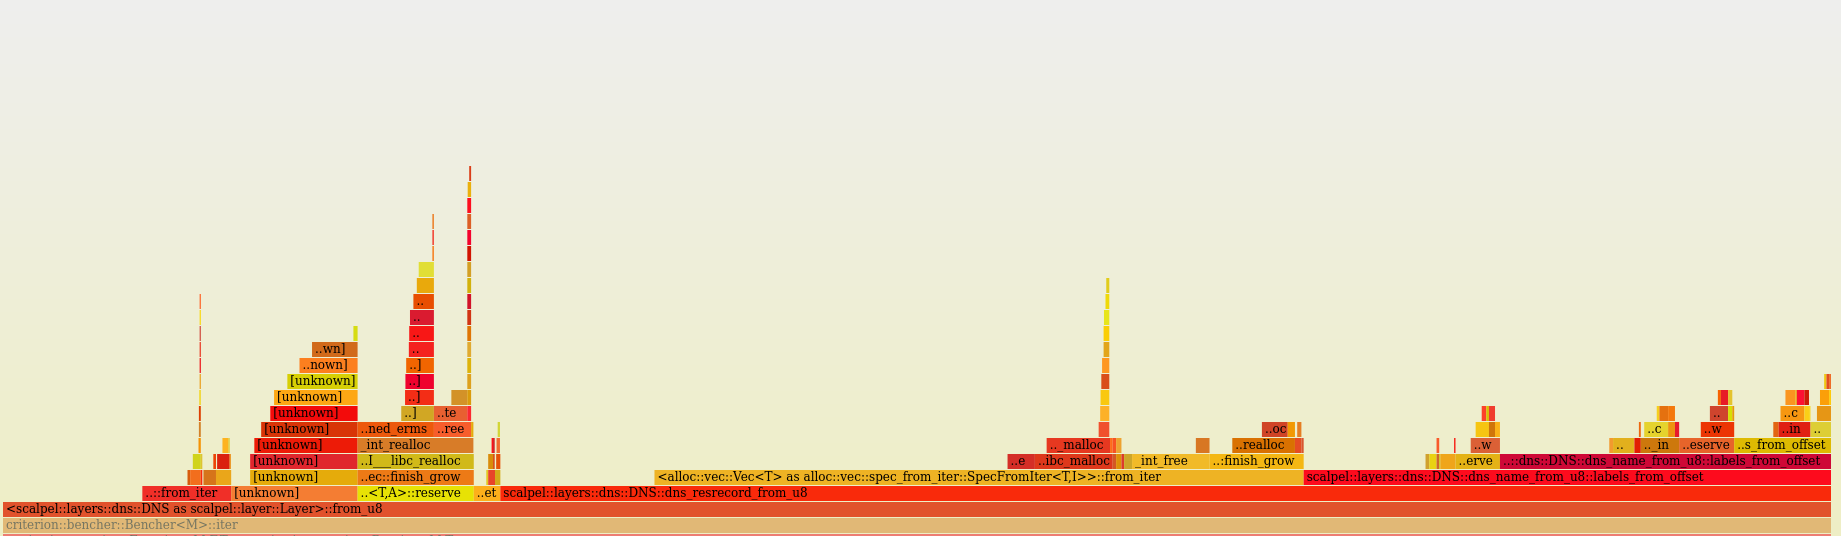
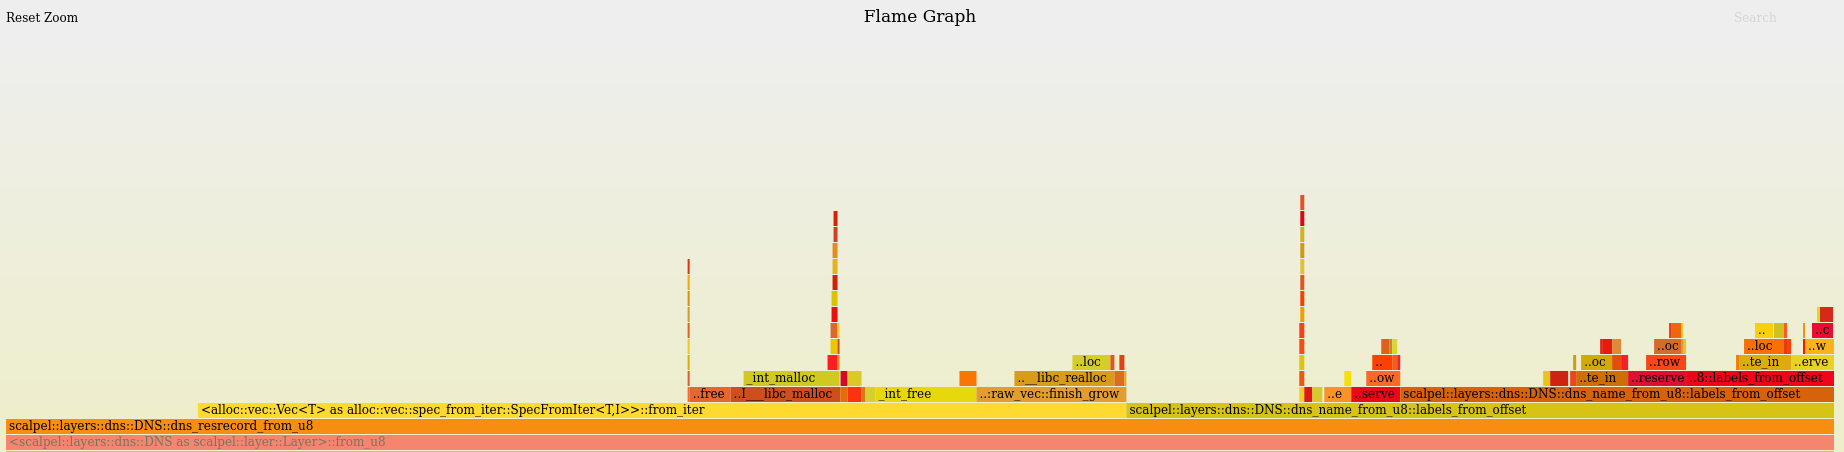
Final publish ready draft for the Rust Performance blog post.

Changed region(s): [[0.0, 0.4956, 1.0, 1.0], [0.4644, 0.031, 0.5263, 0.0619], [0.0, 0.031, 0.0619, 0.0619]]

diff --git a/themes/hyphenos-jinja/assets/css/theme.css b/themes/hyphenos-jinja/assets/css/theme.css
@@ -101,6 +101,15 @@ code {
     color: #296129;
 }
 
+code {
+	font-weight: bold;
+}
+
+article.blog-content > div > p > code {
+	font-weight: bold;
+	font-size: 105%;
+}
+
 .blog-content  h2, h3 {
 	color: #292961;
 }

diff --git a/posts/2021/rust-performance-first-steps.md b/posts/2021/rust-performance-first-steps.md
@@ -1,6 +1,6 @@
 .. title: Rust Performance Measurement Initial Steps
 .. slug: rust-performance-measurement-initial-steps
-.. date: 2021-08-09 16:43:00 UTC+05:30
+.. date: 2021-08-13 10:23:00 UTC+05:30
 .. tags: Rust, Performance, FlameGraphs
 .. author: Abhijit Gadgil
 .. link:
@@ -11,13 +11,15 @@
 
 # Introduction
 
-While working on [`wishpy`](https://pypi.org/project/wishpy/){:target="\_blank"} one of the things that I realized was, [`Wireshark`](https://www.wireshark.org/){:target="\_blank"} is primarily meant to be used as a tool. While, Wireshark provides programmatic API (C based), they are not very convenient to use. One of the Rust project ideas that I had was - to develop a packet dissection framework, that is API friendly. There is a Go based [`gopacket`](https://github.com/google/gopacket/){:target="\_blank"} which comes quite close to what I had in mind. I had a rough idea of how to get it working in Rust and I started upon implementing it in a crate called [`scalpel`](https://github.com/gabhijit/scalpel){:target="\_blank"}. It's still a work in progress and this blog post is not about it _per se_. Since this particular code is going to be sitting at a very low level in a Packet Analysis stack, the actual dissection should be really fast. My goal to start with was to be at-least at par, if not better with `gopacket`'s performance without any optimizations. For a couple of basic dissectors like `IPv4` and `IPv6`, it was doing actually substantially better - nearly twice as fast compared to `gopacket`, and this looked quite promising, but for one particular benchmark for a DNS Packet, the performance more than twice slower than the `gopacket`'s. The actual reason for this ended up being something else and not just the dissection performance, but identifying the root cause helped in better understanding at-least some parts of Rust's ecosystem for running benchmarks and instrumentation of running code. Next, we'll look at some of those tools and also how these tools helped identify and reason about the performance issues and what steps were taken to solve the issue.
+While working on [`wishpy`](https://pypi.org/project/wishpy/){:target="\_blank"} one of the things that I realized was, [`Wireshark`](https://www.wireshark.org/){:target="\_blank"} is primarily meant to be used as a tool. While, Wireshark provides programmatic API (C based), they are not very convenient to use. One of the Rust project ideas that I had was - to develop a packet dissection framework, that is API friendly. There is a Go based [`gopacket`](https://github.com/google/gopacket/){:target="\_blank"} which comes quite close to what I had in mind. I had a rough idea of how to get it working in Rust and I started upon implementing it in a crate called [`scalpel`](https://github.com/gabhijit/scalpel){:target="\_blank"}. It's still a work in progress and this blog post is not about it _per se_.
+
+Since this code is targeted for working at a very low level in a Packet Analytics stack, the actual dissection should be really fast. My goal to start with was to be at-least at par, if not better with `gopacket`'s performance (since we are developing it in a non-GC language) without any optimizations. For a couple of basic dissectors like `IPv4` and `IPv6`, it was doing actually substantially better - nearly twice as fast compared to `gopacket`, and this looked quite promising, but for one particular benchmark for a DNS Packet, the performance was more than twice slower than the `gopacket`'s. The actual reason for this ended up being something else and not just the dissection performance, but identifying the root cause helped in better understanding at-least some parts of Rust's ecosystem for running benchmarks and instrumentation of running code. Next, we'll look at some of those tools and also how these tools helped identify and reason about the performance issues and what steps were taken to solve the issue.
 
 # Background
 
 Before we get into the details of the actual changes and the eventual improvements, a quick look at the ecosystem. There is a cargo command called `cargo bench` that can be used to run benchmark programs. [`criterion`](https://bheisler.github.io/criterion.rs/book/index.html){:target="\_blank"} is a micro-benchmarking tool that can be used with `cargo bench`. The documentation of `criterion` is quite good and we will not look into the details of how that is to be used. We need to add it as one of the `dev-dependencies` and add modules inside the `benches` directory of your crate and then `cargo bench` will take over.
 
-While `cargo bench` is useful for running benchmarks, to be able to look underneath, we need additional instrumentation mechanism. Brendan Greg's [Flamegraphs](https://www.brendangregg.com/flamegraphs.html){:target="\_blank"} is an excellent tool for this. It can be used to generate a nice SVG which shows the frequently used code paths along with their call stacks. This can show which parts of the program are spending more time. There is a [Rust port of FlameGraph](https://github.com/jonhoo/inferno){:target="\_blank"}, which is integrated with cargo toolchain and one can run a command called `cargo flamegraph`, that generates the flame graph for running a particular benchmark.
+While `cargo bench` is useful for running benchmarks, to be able to look underneath, we need additional instrumentation mechanism. Brendan Greg's [Flamegraphs](https://www.brendangregg.com/flamegraphs.html){:target="\_blank"} is an excellent tool for this. It can be used to generate a nice SVG which shows the frequently used code paths along with their call stacks. This can for example show which parts of the program the CPU is spending spending more time. There is a [Rust port of FlameGraph](https://github.com/jonhoo/inferno){:target="\_blank"}, which is integrated with cargo toolchain and one can run a command called `cargo flamegraph`, that generates the flame graph for running a particular benchmark.
 
 So the plan was to generate FlameGraph for the benchmark that was performing poorly and identifying the issues and see how they can be addressed if at all. Also, the idea was not to actually perform any 'hand optimizations', but to simply avoid parts that were poorly implemented (like too many allocations for example) and see if they can be improved and how much.
 
@@ -25,7 +27,7 @@ So the plan was to generate FlameGraph for the benchmark that was performing poo
 
 The code that we are exploring is for the dissection of DNS packets, before we actually look into the code, let's quickly understand a bit about how records are compressed in the DNS packets as this particular part of the code was problematic.
 
-In a DNS packet, DNS records for the hostnames are compressed by not repeating the parts of the hostname again if multiple records are present and simply providing the pointer to the actual records, for instance let's say there are four name server records for `ns1.example.com`, `ns2.example.com`, `ns3.example.com` and `ns4.example.com`, this is encoded in a packet as `ns1.example.com` and for `ns2`, `ns3` and `ns4` only the pointer to the `.example.com` is kept. [This section](https://datatracker.ietf.org/doc/html/rfc1035#section-4.1.4){:target="\_blank"} in the DNS RFC has more details about it.
+In a DNS packet, DNS records for the hostnames are compressed by not repeating the parts of the hostname again if multiple records are present and simply providing the pointer to the actual records, for instance let's say there are four name server records for `ns1.example.com`, `ns2.example.com`, `ns3.example.com` and `ns4.example.com`, this is encoded in a packet as `ns1.example.com` and for `ns2`, `ns3` and `ns4` only the pointer to the `.example.com` is kept. [This section](https://datatracker.ietf.org/doc/html/rfc1035#section-4.1.4){:target="\_blank"} in the RFC-1035 has more details about it.
 
 
 # First Implementation and Issues
@@ -55,11 +57,12 @@ We are going to look at a specific function that is obtaining the DNS names from
 ```
 The actual code for this [implementation can be found here](https://github.com/gabhijit/scalpel/blob/07fde032f10b617eae9feaddc2eb0a61ea54b530/src/layers/dns.rs#L90){:target="\_blank"}.
 
-So what the code was essentially doing was recursively calling the `labels_from_offset`, where each call to `labels_from_offset` was returning a `Vec<u8>` and finally all the vectors were flattened into a `Vec<u8>`.
+So what the code was essentially doing was recursively calling the `labels_from_offset`, where each call to `labels_from_offset` was returning a `Vec<u8>` and finally all the vectors were flattened into a `Vec<u8>`. Records will be generated using this `Vec<u8>`, which is often just getting the `String` from that vector.
 
 
-This part looked like the culprit and indeed the FlameGraph did indicate that a chunk of time was being spent here. See below -
+This part looked like the culprit and indeed the FlameGraph did indicate that a chunk of time was being spent here (Open the SVG and size of the rectangle for `<alloc::vec::Vec<T>..` vs `...::dns_name_from_u8::labels_from_offset`). See below -
 
+<br/>[open flamegraph in new tab](/blog/images/flamegraph_1.svg?x=18073&y=421){:target="\blank"}
 
 ![FlameGraph 1 - FlameGraph for `Vec<Vec<u8>>`](/blog/images/flamegraph_1.png "FlameGraph 1")
 
@@ -81,7 +84,7 @@ To improve the performance, the recursive call to the `labels_from_offset` path 
 
 # Iteration 2 - Flattening the Vector
 
-This `Vec<Vec<u8>>` can be avoided by using a 'flattened' vector and thus avoiding the flattening cost. This iteration was tried next. This helped improve the performance quite a bit, nearly twice for the worst performing case and by about 20-30 percent in other cases. This was understandable because in the other cases there were not as many compressions and hence that part of the code was not getting hit often. Also, instead of allocating a `Vec` with no capacity and growing it, some `capacity` was reserved, which helped as well.
+This `Vec<Vec<u8>>` can be avoided by using a 'flattened' vector and thus avoiding the flattening cost. This iteration was tried next. This helped improve the performance quite a bit, nearly twice for the worst performing case and by about 20-30 percent in other cases. This was understandable because in the other cases there were not as many compressions and hence that part of the code was not getting hit often. Also, instead of allocating a `Vec` with no capacity and growing it, some `capacity` was reserved, nearly a fourth of performance improvement was due to 'reserve'ing the vector.
 
 The actual code for this [implementation can be found here](https://github.com/gabhijit/scalpel/blob/891355f8ec7de38c778e11fbdfdfb328927a2237/src/layers/dns.rs#L90){:target="\_blank"}.
 
@@ -96,7 +99,8 @@ Summary results after running `cargo bench` after the above changes. As can be s
 | Parse_DNS_Regression_Packet | 462.30 ns |
 
 <br/>
-Also, as can be seen in the flamegraph below - Most of the time spent in Vector Alloc is gone now.
+Also, as can be seen in the flamegraph below - the time spent in Vector allocation is reduced, considerably (this can be observed in the SVG by comparing the relative size of the rectangles for `<alloc::vec::Vec<T>...>` and `...::dns_name_from_u8::labels_from_offset`.
+<br/>[open flamegraph in new tab](/blog/images/flamegraph_2.svg?x=17958&y=405){:target="\blank"}
 
 ![FlameGraph 2 - FlameGraph for `Vec<u8>`](/blog/images/flamegraph_2.png "FlameGraph 2")
 
@@ -115,10 +119,10 @@ The actual code for this [implementation can be found here](https://github.com/g
 | Parse_DNS_Regression_Packet | 450.01 ns |
 
 <br/>
-As can be seen from the FlameGraph, there is no visible difference in the FlameGraph between this case and the previous case.
+As can be seen from the FlameGraph, relative time spent in Vector allocation (size of the rectangle in the SVG ) is even smaller in this case.
+<br/>[open flamegraph in new tab](/blog/images/flamegraph_3.svg?x=20183&y=869){:target="\blank"}
 
 ![FlameGraph 3 - FlameGraph for `Vec<u8>`](/blog/images/flamegraph_3.png "FlameGraph 3")
-
 # Key Takeaways
 
 Key takeaways from these iterations can be summarized as follows -
@@ -129,20 +133,22 @@ Key takeaways from these iterations can be summarized as follows -
 
 # Postscript
 
-Even after these 'optimizations' (they should rather be called - improvements than optimizations), the code finally was not doing just as well as the `gopacket` code, which still didn't make a whole lot of sense as most other benchmarks were running substantially better. It turned out, that the `gopacket` benchmark was reusing an allocated slice and hence appeared to run faster. When the same benchmark in `gopacket` was changed to run like the benchmark above, the results were consistent, the benchmark running substantially faster. The below table shows the comparison for benchmarks between `gopacket` implementation and `scalpel` implementation. While it might look like `scalpel` is doing twice better than `gopacket` for these benchmarks, I would not jump to the conclusion and shout this is twice as fast, but surely it's promising enough (in fact more than promising enough) to be pursued further.
+Even after these 'optimizations' (they should rather be called - improvements than optimizations), the code finally was not doing just as well as the `gopacket` code, which still didn't make a whole lot of sense as most other benchmarks were running substantially better. It turned out, that the `gopacket` benchmark was reusing an allocated slice and hence appeared to run faster. When the same benchmark in `gopacket` was changed to run like the benchmark above, the results were consistent, the benchmark running substantially faster in `scalpel`. The below table shows the comparison for benchmarks between `gopacket` implementation and `scalpel` implementation. While it might look like `scalpel` is doing twice better than `gopacket` for these benchmarks, I would not jump to the conclusion and shout this is twice as fast, but surely it's promising enough (in fact more than promising enough) to be pursued further.
 
 
 | Benchmark | `gopacket`\*| `gopacket`+ | `scalpel` |
 |:--|:--:|:--:|:--:|
 | Parse_DNS_AAAA | 4566.2 ns | 644.3 ns | 919.64 ns {{% emoji white_heavy_checkmark %}}|
-| Parse_DNS | 867.8 ns | N/A | 384.97 ns {{% emoji white_heavy_checkmark %}}|
-| Parse_DNS_Regression_Packet | 1094 ns | N/A | 450.01 ns {{% emoji white_heavy_checkmark %}}|
+| Parse_DNS | N/A | 867.8 ns | 384.97 ns {{% emoji white_heavy_checkmark %}}|
+| Parse_DNS_Regression_Packet | N/A | 1094 ns | 450.01 ns {{% emoji white_heavy_checkmark %}}|
 
 \* - `gopacket` benchmark modified for comparison with `scalpel`.
 <br/>
 \+ - The actual `gopacket` benchmark (reusing the allocated slice).
 
-# Scalpel Looking for Contributions
+For the `gopacket` benchmarks, look at the [`dns_test.go`](https://github.com/google/gopacket/blob/3eaba08943250fd212520e5cff00ed808b8fc60a/layers/dns_test.go#L68){:target="\blank"} and [`udp_test.go`](https://github.com/google/gopacket/blob/3eaba08943250fd212520e5cff00ed808b8fc60a/layers/udp_test.go#L352){:target="\blank"} files.
+
+# Contributions Welcome
 
 Scalpel is looking for help from people to contribute to write dissectors for more protocols. Please check the scalpel project on Github.
 
